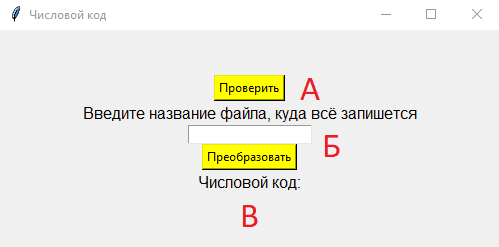
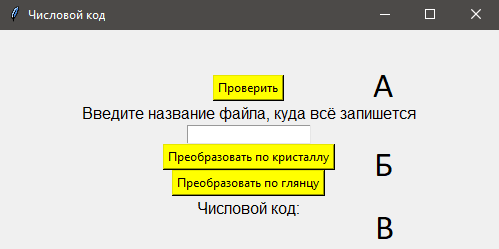
fixing hash / add new function

diff --git a/NumericCode.py b/NumericCode.py
@@ -5,7 +5,7 @@ from PIL import ImageTk, Image
 
 import cv2
 import numpy as np
-import hashlib
+import imagehash
 
 import os
 
@@ -13,8 +13,10 @@ import os
 root = tk.Tk()
 
 # Генерирование хеша изображения
-def generate_matrix_id(matrix):
-    matrix_hash = int(hashlib.md5(matrix.astype("uint8")).hexdigest(), 16)
+def generate_matrix_id(img):
+    rgb_image  = cv2.cvtColor(img, cv2.COLOR_BGR2RGB)
+    image = Image.fromarray(rgb_image)
+    matrix_hash = int(str(imagehash.average_hash(image)), 16) // 10**6
     return str(matrix_hash)
 
 def circle_mask(image, center, radius):
@@ -154,10 +156,58 @@ def get_glossy(path):
     # Возвращение маскированного изображения и координат центра окружности
     return masked_image, center
 
+def remove_background(path):
+    # Преобразование изображения
+    image = cv2.imread(path)
+
+    # Желаемый размер
+    if image.shape[0] < 300:
+        width = image.shape[0] * 5
+        height = image.shape[0] * 5
+
+        # Изменение размера изображения
+        image = cv2.resize(image, (width, height))
+
+    # Выполнить сегментацию со средним сдвигом
+    image_lab = cv2.cvtColor(image, cv2.COLOR_BGR2Lab)
+    shifted = cv2.pyrMeanShiftFiltering(image_lab, 20, 45)
+
+    # Преобразование в оттенки серого
+    shifted_gray = cv2.cvtColor(shifted, cv2.COLOR_BGR2GRAY)
+
+    # Порог изображения
+    _, thresh = cv2.threshold(shifted_gray, 0, 255, cv2.THRESH_BINARY | cv2.THRESH_OTSU)
+
+    # Найти наибольший контур
+    contours, _ = cv2.findContours(thresh.copy(), cv2.RETR_EXTERNAL, cv2.CHAIN_APPROX_SIMPLE)
+
+    largest_contour = max(contours, key=cv2.contourArea)
+
+    # Выполнение слежения за объектом
+    (x, y, w, h) = cv2.boundingRect(largest_contour)
+
+    # Вычислить центр прямоугольника
+    center_x = x + w // 2
+    center_y = y + h // 2
+
+    # Вычислить главную и малую оси эллипса
+    a = w // 2
+    b = h // 2
+
+    canvas = np.zeros_like(image) 
+    # Рисуем окружность на изображении
+    cv2.ellipse(canvas, (center_x, center_y), (a, b), 0, 0, 360, (255, 255, 255), -1)
+
+    # Побитовое И между исходным изображением и маской
+    result = cv2.bitwise_and(image, canvas)
+
+    return result, [center_x, center_y]
+
 def try_filter(image, center_circle, check=False):
     # Проверка наличия черных пикселей на изображении или изображение сильно размыто
-    if check_black_pixels(image) or center_circle == 0:
-        messagebox.showerror(title='Ошибка', message='Фото не подходит!')
+    if check_black_pixels(image):
+        show_image(image)
+        messagebox.showerror(title='Ошибка', message='Невозможно найти кристалл!')
         return False
 
     metka = False
@@ -238,7 +288,18 @@ def try_filter(image, center_circle, check=False):
         messagebox.showerror(title='Ошибка', message='Метки не было найдено!')
     return False
 
-def btn_click():
+def btn_click_crystal():
+    file = fileInput.get()
+    if file == '':
+        messagebox.showerror(title='Ошибка', message='Поле не было заполнено!')
+        return
+    file_path = filedialog.askopenfilename()
+    image, center_circle = remove_background(file_path)
+    with open(f"{str(file)}.txt", "a") as f:
+        img = try_filter(image, center_circle)
+        if img: f.write(os.path.basename(file_path) + " = " + str(img) + "\n")
+
+def btn_click_glossy():
     file = fileInput.get()
     if file == '':
         messagebox.showerror(title='Ошибка', message='Поле не было заполнено!')
@@ -251,7 +312,7 @@ def btn_click():
 
 def btn_check():
     file_path = filedialog.askopenfilename()
-    image, center_circle = get_glossy(file_path)
+    image, center_circle = remove_background(file_path)
     try_filter(image, center_circle, check=True)
 
 root.title('Числовой код')
@@ -272,8 +333,11 @@ title.pack()
 fileInput = tk.Entry(frame, bg='white')
 fileInput.pack()
 
-btn = tk.Button(frame, text='Преобразовать', bg='yellow', command=btn_click)
-btn.pack()
+btn_crystal = tk.Button(frame, text='Преобразовать по кристаллу', bg='yellow', command=btn_click_crystal)
+btn_crystal.pack()
+
+btn_glossy = tk.Button(frame, text='Преобразовать по глянцу', bg='yellow', command=btn_click_glossy)
+btn_glossy.pack()
 
 info = tk.Label(frame, text='Числовой код:', font=40)
 info.pack()

diff --git a/README.md b/README.md
@@ -28,7 +28,41 @@
 | show_image            | Отображает изображение в графическом интерфейсе.                                                                                                                                                                                                                                                                                  |
 | update_image_label    | Обновляет размеры и отображение изображения в графическом интерфейсе, чтобы оно соответствовало размеру окна.                                                                                                                                                                                                                     |
 | on_window_resize      | Обработчик события изменения размера окна. Вызывает функцию update_image_label для обновления размеров отображаемого изображения при изменении размера окна.                                                                                                                                                                      |
-| get_glossy            | Обрабатывает изображение, находит основной окружной контур и создает маску этого контура. Если вариация лапласиана меньше 58, возвращает маску и центр окружности, иначе возвращает только маску.                                                                                                                                 |
+| remove_background      | Удаляет фон из изображения и возвращает результат и координаты центра.                                                                                                                                                                      |
+| get_glossy            | Обрабатывает изображение с помощью фильтрации по глянцу и возвращает маскированное изображение и центр окружности.                                                                                                                                                                     |
 | try_filter            | Применяет фильтры и анализирует изображение с целью поиска метки. Проверяет условия наличия черных пикселей и нахождения основной окружности. Если метка найдена, отображает изображение с выделенной меткой. Если используется режим проверки (check=True), выводит сообщение о нахождении метки. Возвращает числовой код метки. |
-| btn_click             | Обработчик нажатия кнопки "Преобразовать". Получает выбранный файл, обрабатывает его и генерирует числовой код метки. Записывает результат в текстовый файл.                                                                                                                                                                      |
+| btn_click_crystal             | Обработчик события нажатия кнопки для обработки изображения по кристаллу.                                                                                                                                                                      |
 | btn_check             | Обработчик нажатия кнопки "Проверить". Получает выбранный файл, обрабатывает его и анализирует на наличие метки. Если метка найдена, выводит сообщение об успешной находке.                                                                                                                                                       |
+
+
+# Пошаговое описание алгоритма:
+
+1. Изображение будет передано в функцию `get_glossy()` / `remove_background()`, которая выполнит следующие действия:
+   - Преобразование изображения в цветовую модель HSV.
+   - Применение цветового фильтра к изображению, чтобы выделить глянцевую метку / метку кристалла.
+   - Поиск контуров на изображении.
+   - Определение основной окружности, ограничивающей глянцевую метку.
+   - Возвращение маскированного изображения метки и координат центра окружности.
+
+2. Если маскированное изображение метки и координаты центра окружности были успешно получены, программа вызовет функцию `try_filter()` с полученными параметрами.
+
+3. Функция `try_filter()` выполнит следующие действия:
+   - Проверит наличие черных пикселей на изображении и уровень размытости.
+   - Если проверка не пройдена, будет показано сообщение об ошибке, указывающее, что фото не подходит.
+   - Иначе, изображение будет размыто и применен цветовой фильтр с изменяемым верхним порогом значений HSV.
+   - Далее будут выполнены следующие шаги в цикле:
+     - Поиск контуров на фильтрованном изображении.
+     - Вычисление площади контуров и фильтрация по заданным условиям.
+     - Определение ограничивающего прямоугольника минимальной площади для каждого контура.
+     - Проверка формы прямоугольника и его положения в пределах изображения.
+     - Проверка, что хотя бы один пиксель внутри прямоугольника имеет значение 0 (черный пиксель).
+     - Если все условия выполнены, будет выполнено следующее:
+       - Вычисление центра прямоугольника.
+       - Копирование изображения и отрисовка ограничивающего прямоугольника.
+       - Поворот изображения относительно центральной окружности.
+       - Объединение изображений для отображения.
+       - Генерация числового кода для повернутого изображения.
+       - Вывод числового кода на экран.
+       - Возвращение числового кода.
+
+4. Если метка была найдена и успешно обработана, будет сгенерирован числовой код, который будет записан в файл с указанным названием в поле ввода.
